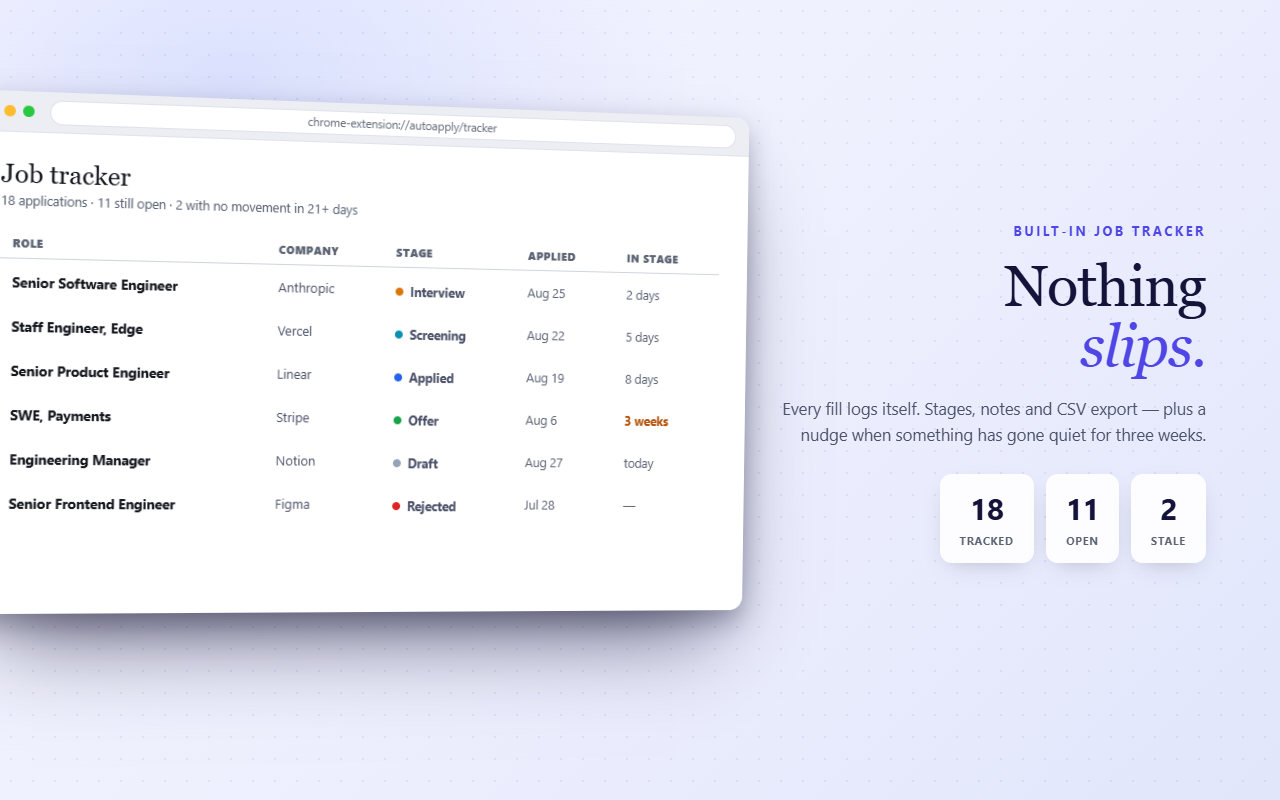
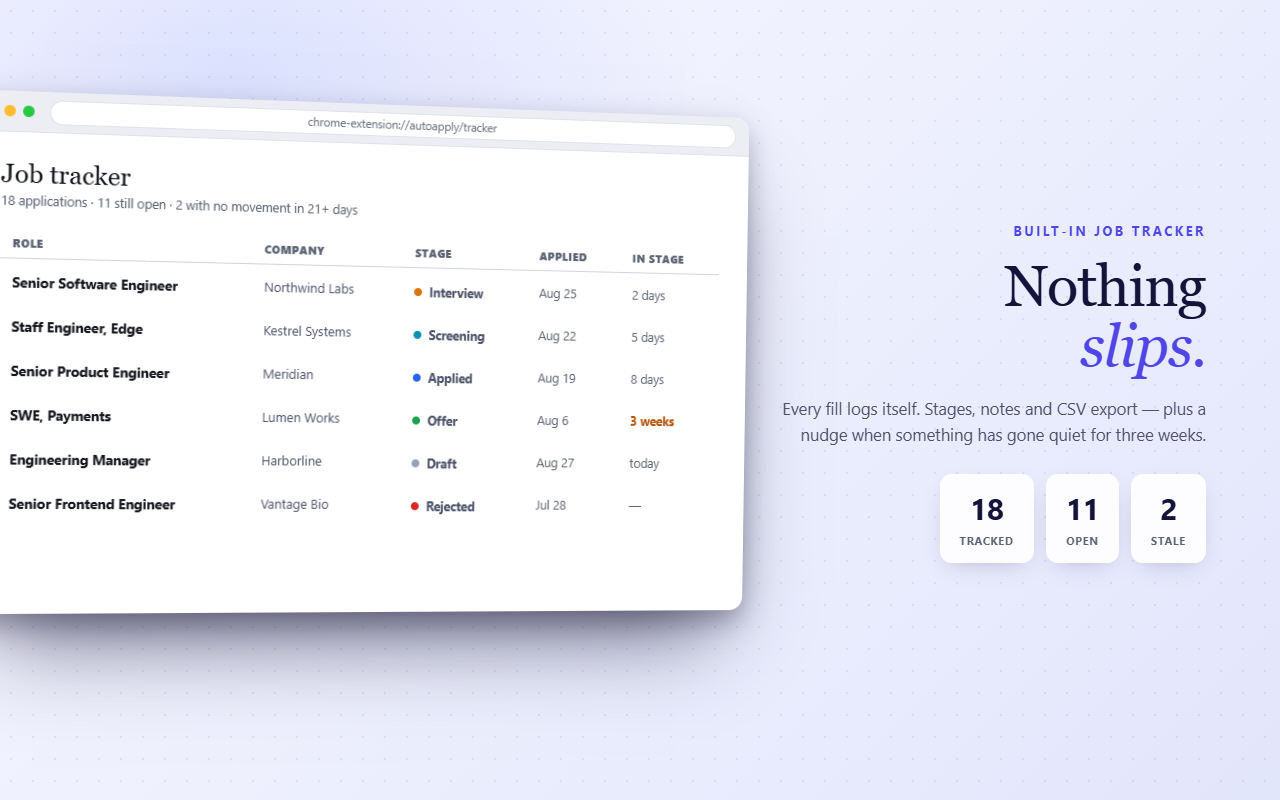
Remove every brand name from the public listing metadata
Submission 2 was rejected under the same keyword spam policy as submission 1.
The flagged content this time:

  Greenhouse, Lever, Ashby, Workable, SmartRecruiters and Workday

That was the fix for the first rejection — the same six names rewritten into a
grammatical sentence explaining what an applicant tracking system is and what
happens on other sites. It was rejected anyway.

The lesson, recorded in STORE-LISTING.md so it is not relearned: prose around
the names does not rescue them. "Lists of sites/brands/keywords without
substantial added value" reads as though a surrounding sentence can supply the
value, but in practice the enumeration itself is what gets flagged. Six brand
names in a row is a list whatever punctuation joins them.

The description now names none of them. It describes the category and points at
the permissions Chrome shows before install, which is where the actual domains
are listed authoritatively and is not metadata we write.

The permission justification fields still name the six hosts. Those exist to
explain specific host permissions to a reviewer, are not public listing
metadata, and were not part of either rejection.

Two image fixes neither rejection cited, on the same reasoning — the policy
covers screenshots and promotional images as well as the description:

- Screenshot 4 listed six real employers down its Company column. That is a
  list of brands in a promotional image by a different route.
[…]

diff --git a/STORE-LISTING.md b/STORE-LISTING.md
@@ -64,18 +64,21 @@ WHAT IT DOES
 • Highlights every field it touched, and lists what still needs you and why.
   The review panel collapses out of the way and can be moved to either side of
   the window, so it never covers the form you are checking.
-• Tracks each application through Draft, Applied, Screening, Interview, Offer,
-  Rejected or Withdrawn, with notes and CSV export.
+• Tracks each application through the stages from draft to offer, with notes
+  and CSV export.
 • Shows how long each application has sat in its current stage, and flags the
   ones that have not moved in three weeks — so nothing quietly goes cold.
 
 WHERE IT WORKS
 
-Most job postings are served by a handful of applicant tracking systems, and
-AutoApply recognises six of them on sight: Greenhouse, Lever, Ashby, Workable,
-SmartRecruiters and Workday. Opening a posting on any of those is enough, with
-nothing to switch on. On a company's own careers page, one click enables it for
-that site, where it falls back to handling any ordinary HTML form.
+Most job postings are served by a handful of applicant tracking systems.
+AutoApply recognises the major ones automatically, so opening a posting on one
+is enough and there is nothing to switch on. Everywhere else — a company's own
+careers page, for instance — one click enables it for that site, where it falls
+back to handling any ordinary HTML form.
+
+The exact sites it covers on its own are listed in the permissions Chrome shows
+you before you install.
 
 WHAT IT WILL NOT DO
 
@@ -104,55 +107,73 @@ Privacy policy: https://docs.google.com/document/d/1VuqjvcuTQtC1i8NK9U5KWMwsJPoY
 
 ## Avoiding keyword spam
 
-**Submission 1 was rejected under this policy** (violation reference *Yellow
-Argon*, routing ID *FZSL*). The description that was submitted contained:
+This listing was rejected **twice** under the same policy (violation reference
+*Yellow Argon*, routing ID *FZSL*). The second rejection is the instructive one.
+
+### Submission 1
 
 > 🌐 Works with popular job platforms Built-in support for: Greenhouse Lever
 > Ashby Workable SmartRecruiters Workday
 
-That is six brand names in a row under a heading, with no sentence around them.
-The store's rule is specific — it prohibits *"lists of sites/brands/keywords
-without substantial added value"* and *"unnatural repetition of the same keyword
-more than 5 times"*. A bare run of brand names is the textbook case.
+Six brand names under a heading, no sentence around them. Textbook.
 
-Note that the rejected text **was never in this file**. It came from an earlier
-draft pasted into the dashboard by hand. Copy the blocks in this document
-verbatim and the problem does not recur.
+### Submission 2
 
-### What changed in response
+> Greenhouse, Lever, Ashby, Workable, SmartRecruiters and Workday
 
-- The supported sites are now named **once, inside a sentence** that explains
-  what an applicant tracking system is and what happens on sites outside the six.
-  The names are the same; the context around them is what makes them descriptive
-  rather than a keyword list.
-- The section heading is `WHERE IT WORKS` rather than a label that reads like a
-  keyword category.
-- `Never` opened five consecutive bullets in `WHAT IT WILL NOT DO`. Each bullet
-  now leads with its own subject. The claims are unchanged.
-- **Screenshot 1 no longer carries a `Greenhouse · Lever · Ashby · Workday`
-  pill.** The policy covers *"screenshots, and promotional images"*, not just the
-  description, and a row of brand names in an image has no room for the context
-  that would justify it. It reads "Works on the major job boards" instead.
+This was the *fixed* version — the same six names rewritten into a grammatical
+sentence that explained what an applicant tracking system is and what happens on
+other sites. It was rejected anyway.
 
-### Before you resubmit
+**The lesson: prose around the names does not rescue them.** The rule reads
+*"lists of sites/brands/keywords without substantial added value"*, and it is
+natural to read "substantial added value" as something the surrounding sentence
+can supply. In practice the enumeration itself is what gets flagged. Six brand
+names in a row is a list whatever punctuation joins them.
 
-Check the copy you are about to paste, not the copy you remember writing:
+### The rule to follow
 
-- [ ] No heading followed by a bare list of brand or site names
-- [ ] Each of the six ATS names appears **once**, inside a sentence
+**Do not name the supported sites in the description at all.** Describe the
+category instead, and point at the permissions, which is where Chrome shows the
+user the actual domains before they install — authoritative, and not metadata
+you are writing:
+
+```
+AutoApply recognises the major ones automatically ...
+The exact sites it covers on its own are listed in the permissions Chrome shows
+you before you install.
+```
+
+The permission justification fields are a separate matter. Those *must* name the
+six hosts, because they exist to explain specific host permissions to a reviewer.
+They are not public listing metadata and were never part of either rejection.
+
+### This also applies to the images
+
+The policy covers *"screenshots, and promotional images"*, not just the
+description. Two things were fixed there even though neither was cited:
+
+- Screenshot 1 carried a `Greenhouse · Lever · Ashby · Workday` pill.
+- Screenshot 4 listed six **real employers** down its Company column — a list of
+  brands in a promotional image, the same shape by a different route.
+
+Every employer and address in the mockups is now invented, on the RFC-reserved
+`.example` TLD. See the header of `scripts/make-store-assets.mjs`.
+
+### Checklist before resubmitting
+
+- [ ] The description names **no** ATS or job-board brands
+- [ ] No image contains a list of brands, sites, or keywords
+- [ ] No employer name in a mockup is a real company
 - [ ] No word repeated more than five times except ordinary grammar words
 - [ ] No emoji used as a section heading
-- [ ] Nothing in the screenshots or promo tiles is a list of brands or keywords
-- [ ] The short description and the detailed description do not repeat each other
-      verbatim
+- [ ] No heading followed by a bare list of anything
 
 ### Appeal, or resubmit?
 
-Resubmit. An appeal is for a decision you believe was wrong, and this one was
-correct — the submitted text did contain a bare brand list. Fixing the metadata
-and submitting a new revision is both faster and the outcome the reviewer asked
-for. Nothing about the extension's code, permissions or behaviour is implicated,
-so the package itself does not need to change.
+Resubmit. Both rejections were correct on their face — the text really did
+contain a brand list each time. An appeal argues the reviewer was wrong, which
+is a slower path and not the one being asked for here.
 
 ---
 
